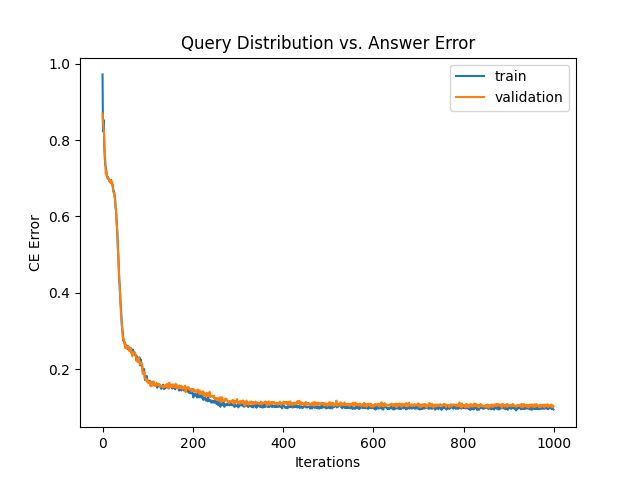
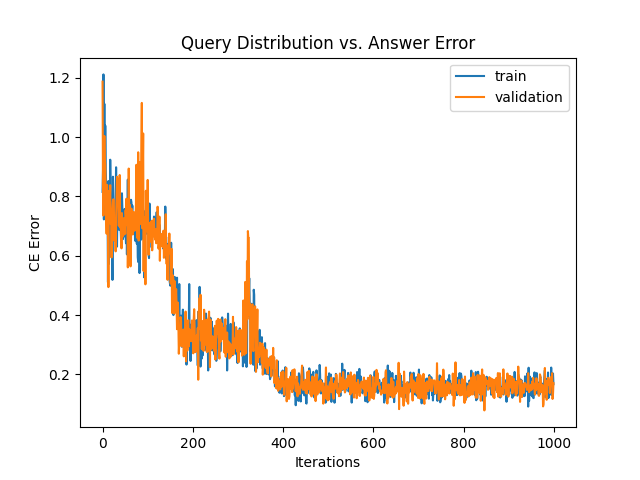
bugfix #1

diff --git a/learner.py b/learner.py
@@ -2,7 +2,6 @@ from utils.helpers import makedir
 from models import encoder
 from torch import optim, nn
 import torch
-import numpy as np
 import matplotlib.pyplot as plt
 from query.simulate import *
 
@@ -186,7 +185,6 @@ class Learner:
             else:
                 true_humans, queries, answers = self.train_dataset.get_batch(batchsize=self.args.batchsize)
                 val_humans, val_queries, val_answers = self.val_dataset.get_batch(batchsize=self.args.batchsize)
-                #val_humans = true_humans
 
             # train encoder
             for _ in range(self.args.encoder_spi):
@@ -286,15 +284,16 @@ class Learner:
         # evaluate encoder on test batch
         if self.args.verbose:
             print("######### TESTING #########")
+
+        # set the encoder to eval mode
+        self.encoder.eval()
             
         test_losses = []
         mses = []
         alignments = []
         
         with torch.no_grad():
-            # set model to eval mode
-            self.encoder.eval()
-
+            
             # when we're not doing a singular batch experiment, we select a different test batch
             # same reward used for testing and training
             if self.args.one_reward:
@@ -312,13 +311,23 @@ class Learner:
 
             for t in range(self.args.sequence_length):
 
+                print()
+                print()
+
                 # get beliefs from queries and answers
                 beliefs, hidden = self.encoder(curr_queries, curr_answers, hidden)
+
+                print("Beliefs", beliefs)
+                print("True Humans", true_humans)
 
                 # get inputs and targets for cross entropy loss
                 inputs = response_dist(self.args, curr_queries, beliefs)
                 inputs = inputs.view(-1, self.args.query_size)
                 targets = curr_answers.view(-1)
+
+                from torch.nn.functional import softmax
+                print("Dist", softmax(inputs, dim=-1))
+                print("Targets", targets)
 
                 # compute metrics and store in lists
                 loss = self.loss(inputs, targets)
@@ -353,19 +362,19 @@ class Learner:
             plt.xlabel("Queries")
             plt.ylabel("CE Loss")
             plt.title("Pretraining Evaluation - Loss")
-            plt.savefig(self.dir + "eval-loss")
+            plt.savefig(self.dir + "test-loss")
             plt.close()
 
             plt.plot(mses)
             plt.xlabel("Queries")
             plt.ylabel("MSE")
             plt.title("Pretraining Evaluation - Reward Error")
-            plt.savefig(self.dir + "eval-error")
+            plt.savefig(self.dir + "test-error")
             plt.close()
 
             plt.plot(alignments)
             plt.xlabel("Queries")
             plt.ylabel("Alignment")
             plt.title("Pretraining Evaluation - Reward Alignment")
-            plt.savefig(self.dir + "eval-alignment")
+            plt.savefig(self.dir + "test-alignment")
             plt.close()

diff --git a/utils/helpers.py b/utils/helpers.py
@@ -27,23 +27,37 @@ class FeatureExtractor:
         obs, actions, next_obs, rews = traj
         
         if self.args.env_type == 'gridworld':
-            #feature 0 - total reward
-            features[0] = rews.sum()
+            # #feature 0 - total reward
+            # features[0] = rews.sum()
 
-            #feature 1 - number of actions that aren't stay
-            features[1] = len(actions) - np.count_nonzero(actions == 4)
+            # #feature 1 - number of actions that aren't stay
+            # features[1] = len(actions) - np.count_nonzero(actions == 4)
 
-            #feature 2 - average distance from bottom left
-            features[2] = sum([distance(ob[0], 0, ob[1], 0) for ob in next_obs])/len(obs)
+            # #feature 2 - average distance from bottom left
+            # features[2] = sum([distance(ob[0], 0, ob[1], 0) for ob in next_obs])/len(obs)
 
-            #feature 3 - average distance from top right
-            features[3] = sum([distance(ob[0], self.args.grid_size, ob[1], self.args.grid_size) for ob in next_obs])/len(obs)
+            # #feature 3 - average distance from top right
+            # features[3] = sum([distance(ob[0], self.args.grid_size, ob[1], self.args.grid_size) for ob in next_obs])/len(obs)
 
-            #feature 4 - average distance from bottom right
-            features[4] = sum([distance(ob[0], self.args.grid_size, ob[1], 0) for ob in next_obs])/len(obs)
+            # #feature 4 - average distance from bottom right
+            # features[4] = sum([distance(ob[0], self.args.grid_size, ob[1], 0) for ob in next_obs])/len(obs)
 
-            #feature 5 - average distance from top left
-            features[5] = sum([distance(ob[0], 0, ob[1], self.args.grid_size) for ob in next_obs])/len(obs)
+            # #feature 5 - average distance from top left
+            # features[5] = sum([distance(ob[0], 0, ob[1], self.args.grid_size) for ob in next_obs])/len(obs)
+
+            ### ONLY FOUR FEATURES ###
+
+            #feature 0 - average distance from bottom left
+            features[0] = sum([distance(ob[0], 0, ob[1], 0) for ob in next_obs])/len(obs)
+
+            #feature 1 - average distance from top right
+            features[1] = sum([distance(ob[0], self.args.grid_size, ob[1], self.args.grid_size) for ob in next_obs])/len(obs)
+
+            #feature 2 - average distance from bottom right
+            features[2] = sum([distance(ob[0], self.args.grid_size, ob[1], 0) for ob in next_obs])/len(obs)
+
+            #feature 3 - average distance from top left
+            features[3] = sum([distance(ob[0], 0, ob[1], self.args.grid_size) for ob in next_obs])/len(obs)
 
         return features
 

diff --git a/driver.py b/driver.py
@@ -16,7 +16,8 @@ exp_name = args.exp_name
 #### set up argument variables ####
 if env == 'gridworld':
     args = gridworld.args(rargs)
-    args.num_features = 6
+    #args.num_features = 6
+    args.num_features = 4
     args.env_type = env
     args.exp_name = exp_name
 
@@ -44,6 +45,9 @@ rand_learner = Learner(args, datasets, RandomPolicy)
 
 # run training for random policy
 rand_learner.train()
+
+# run testing for random policy
+rand_learner.test()
 
 # run training for greedy policy TODO
 # greedy_learner.train()

diff --git a/storage/vae_storage.py b/storage/vae_storage.py
@@ -39,7 +39,7 @@ class VAEStorage:
 
     def get_random_true_rewards(self, batchsize=5):
         true_rewards = torch.normal(0, 1, (batchsize, self.args.num_features))
-        true_rewards = true_rewards / (torch.norm(true_rewards, 1).unsqueeze(-1))
+        true_rewards = true_rewards / (torch.norm(true_rewards, dim=-1).unsqueeze(-1))
         return true_rewards
 
     def get_random_queries(self, batchsize=5):
